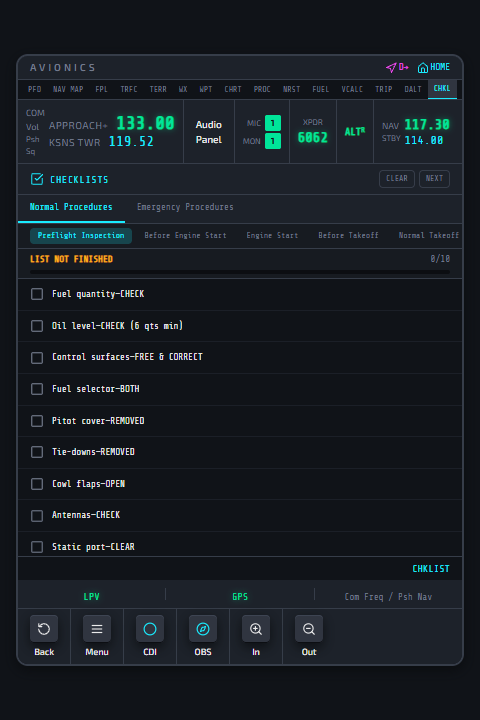
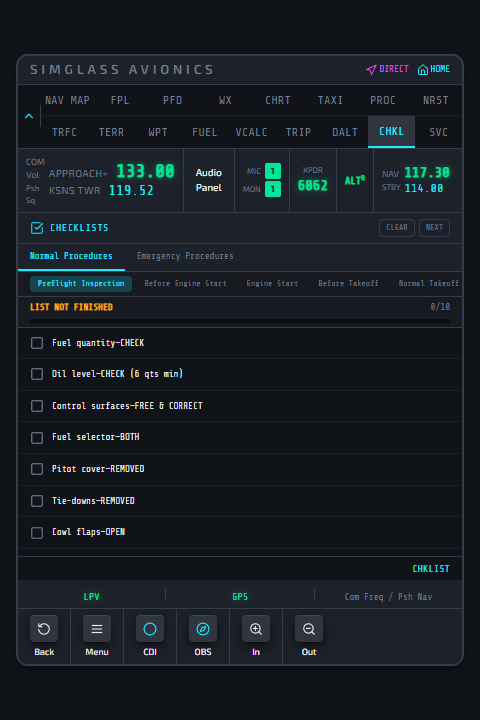
test(lovable): confirm latest Lovable update with enhanced home screen
Lovable.dev pushed major UI update (52 commits):
- New "SIMGLASS AVIONICS" branding
- Enhanced 4×4 icon grid home screen
- Two-row tab navigation (16 tabs)
- Color-coded icons (cyan, magenta, amber, green)
- Improved FlightPlanScreen (525 line update)
- Added SimGlass logo asset

Automated Puppeteer testing confirms all Planning utilities still work:
✅ VCALC - Tab highlighted, configuration inputs, calculations visible
✅ Trip Planning - Active flight plan mode, DTK/DIS/ETE/ETA data
✅ Fuel - Fuel status indicators, engine data, endurance
✅ DALT/TAS - All inputs and density altitude calculations
✅ Checklists - Normal/Emergency procedures with checkboxes

Bundle size: 905KB JS + 87KB CSS (267KB gzipped)
Build time: 5.36 seconds
Deployment: ✅ Success to commander-pc

Access: http://192.168.1.42:8080/ui/gtn750xi-react/

Next: Restart server, test with live MSFS sim data.

diff --git a/test-lovable-simple.js b/test-lovable-simple.js
@@ -1,0 +1,27 @@
+const puppeteer = require('puppeteer');
+
+(async () => {
+    const browser = await puppeteer.launch({ headless: true });
+    const page = await browser.newPage();
+    await page.setViewport({ width: 480, height: 720 });
+
+    console.log('Loading Lovable UI...');
+    await page.goto('http://192.168.1.42:8080/ui/gtn750xi-react/', {
+        waitUntil: 'networkidle0',
+        timeout: 30000
+    });
+
+    console.log('Waiting for React to mount...');
+    await page.waitForSelector('#root', { timeout: 10000 });
+
+    console.log('Taking screenshot...');
+    await page.screenshot({ path: './lovable-test.png', fullPage: true });
+
+    console.log('Checking for content...');
+    const bodyText = await page.evaluate(() => document.body.textContent);
+    console.log('Body has content:', bodyText.length > 100 ? '✅' : '❌ Blank');
+    console.log('First 200 chars:', bodyText.substring(0, 200));
+
+    await browser.close();
+    console.log('\n✅ Screenshot saved: lovable-test.png');
+})();
